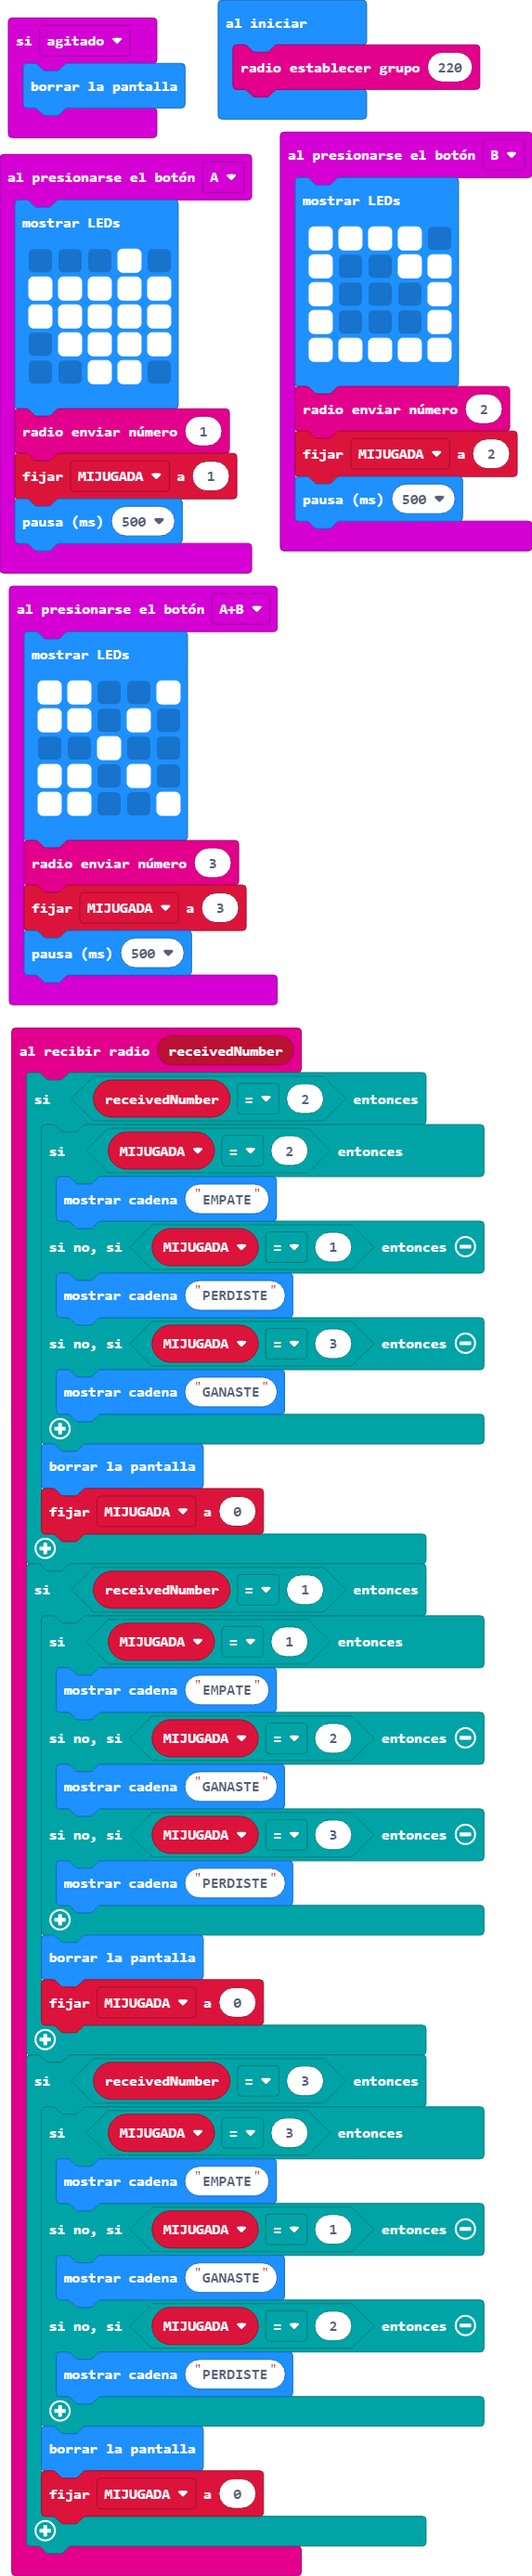
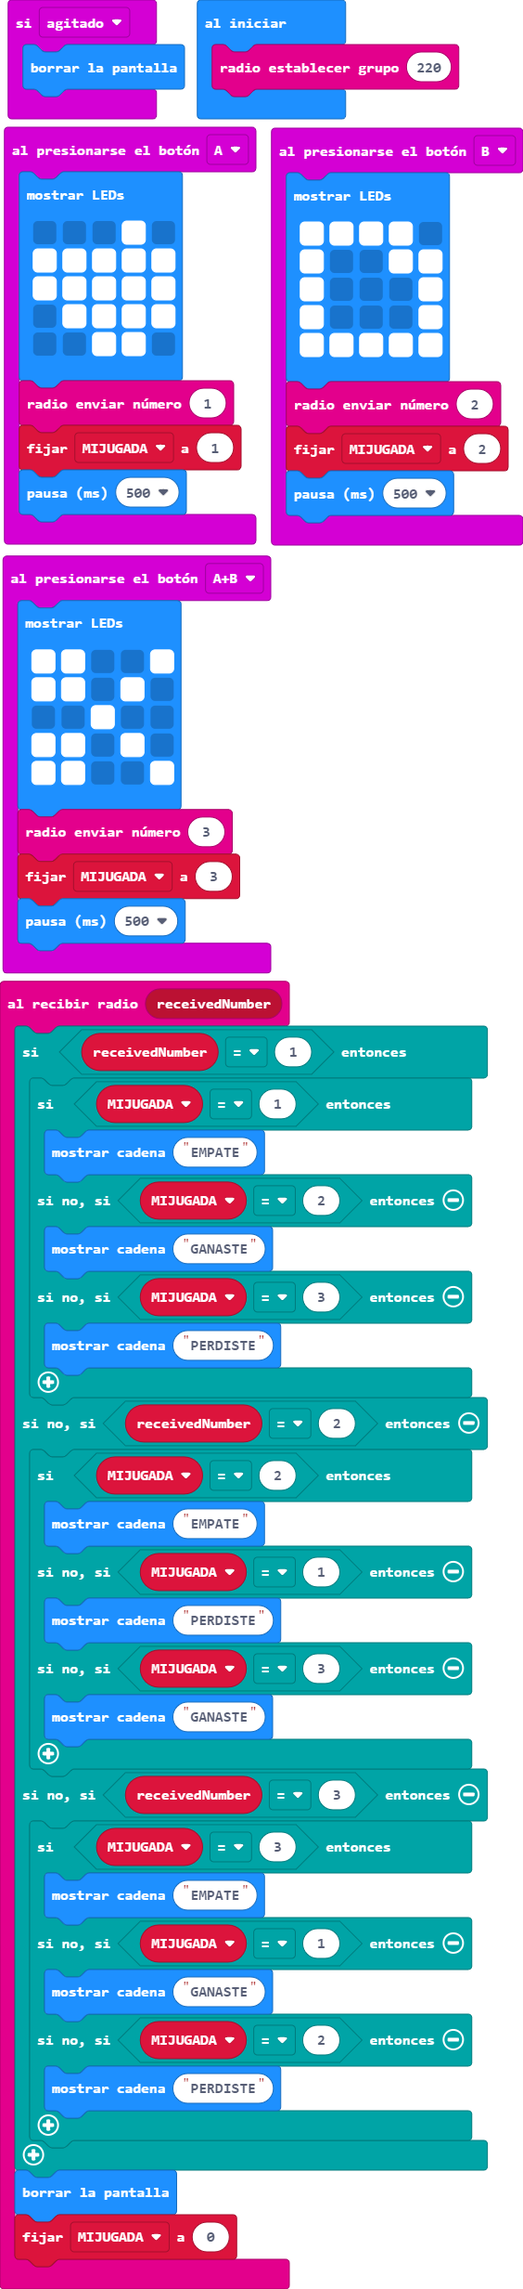
Actualizar main.blocks, main.ts

diff --git a/main.ts b/main.ts
@@ -1,15 +1,4 @@
 radio.onReceivedNumber(function (receivedNumber) {
-    if (receivedNumber == 2) {
-        if (MIJUGADA == 2) {
-            basic.showString("EMPATE")
-        } else if (MIJUGADA == 1) {
-            basic.showString("PERDISTE")
-        } else if (MIJUGADA == 3) {
-            basic.showString("GANASTE")
-        }
-        basic.clearScreen()
-        MIJUGADA = 0
-    }
     if (receivedNumber == 1) {
         if (MIJUGADA == 1) {
             basic.showString("EMPATE")
@@ -18,10 +7,15 @@ radio.onReceivedNumber(function (receivedNumber) {
         } else if (MIJUGADA == 3) {
             basic.showString("PERDISTE")
         }
-        basic.clearScreen()
-        MIJUGADA = 0
-    }
-    if (receivedNumber == 3) {
+    } else if (receivedNumber == 2) {
+        if (MIJUGADA == 2) {
+            basic.showString("EMPATE")
+        } else if (MIJUGADA == 1) {
+            basic.showString("PERDISTE")
+        } else if (MIJUGADA == 3) {
+            basic.showString("GANASTE")
+        }
+    } else if (receivedNumber == 3) {
         if (MIJUGADA == 3) {
             basic.showString("EMPATE")
         } else if (MIJUGADA == 1) {
@@ -29,9 +23,9 @@ radio.onReceivedNumber(function (receivedNumber) {
         } else if (MIJUGADA == 2) {
             basic.showString("PERDISTE")
         }
-        basic.clearScreen()
-        MIJUGADA = 0
     }
+    basic.clearScreen()
+    MIJUGADA = 0
 })
 input.onButtonPressed(Button.A, function () {
     basic.showLeds(`
